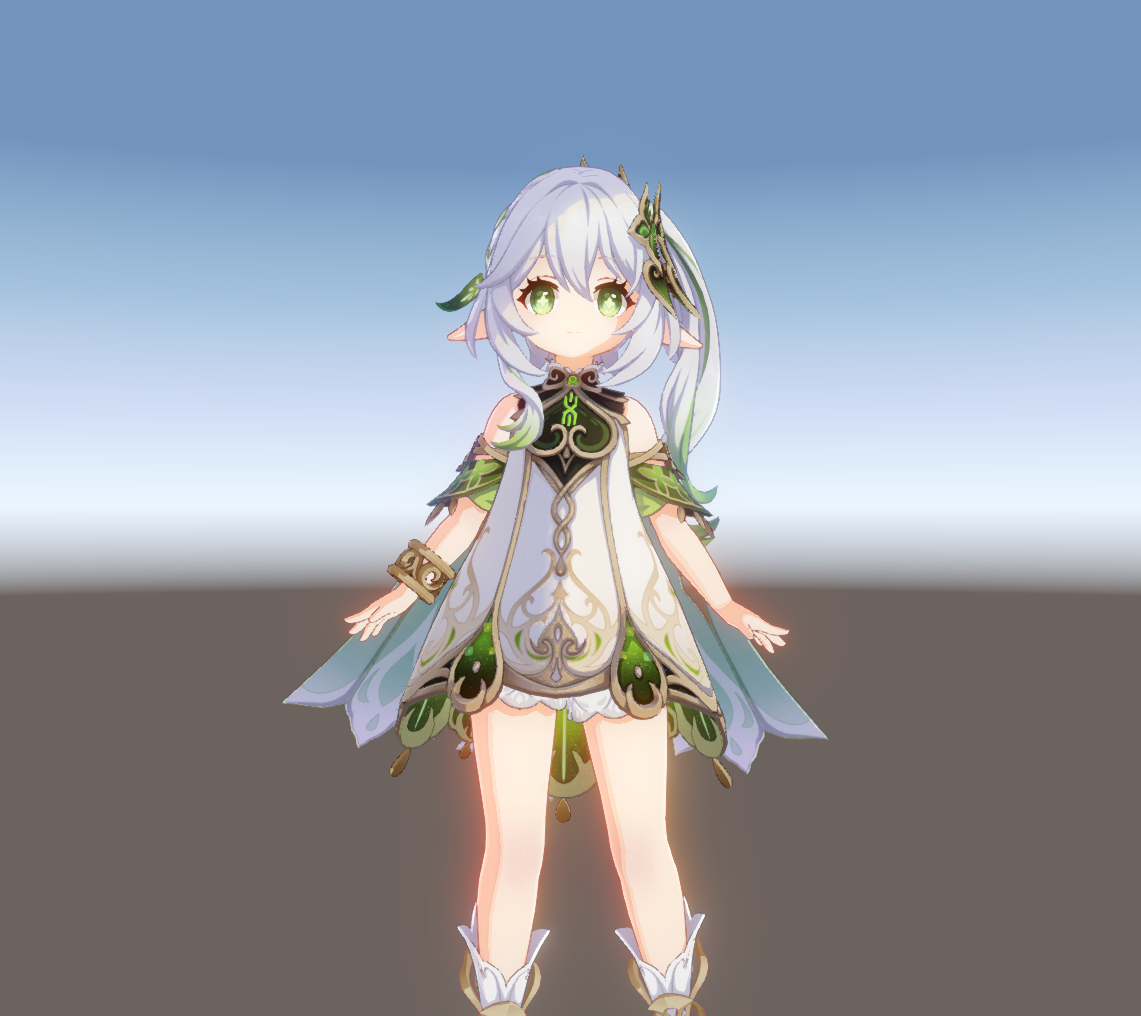
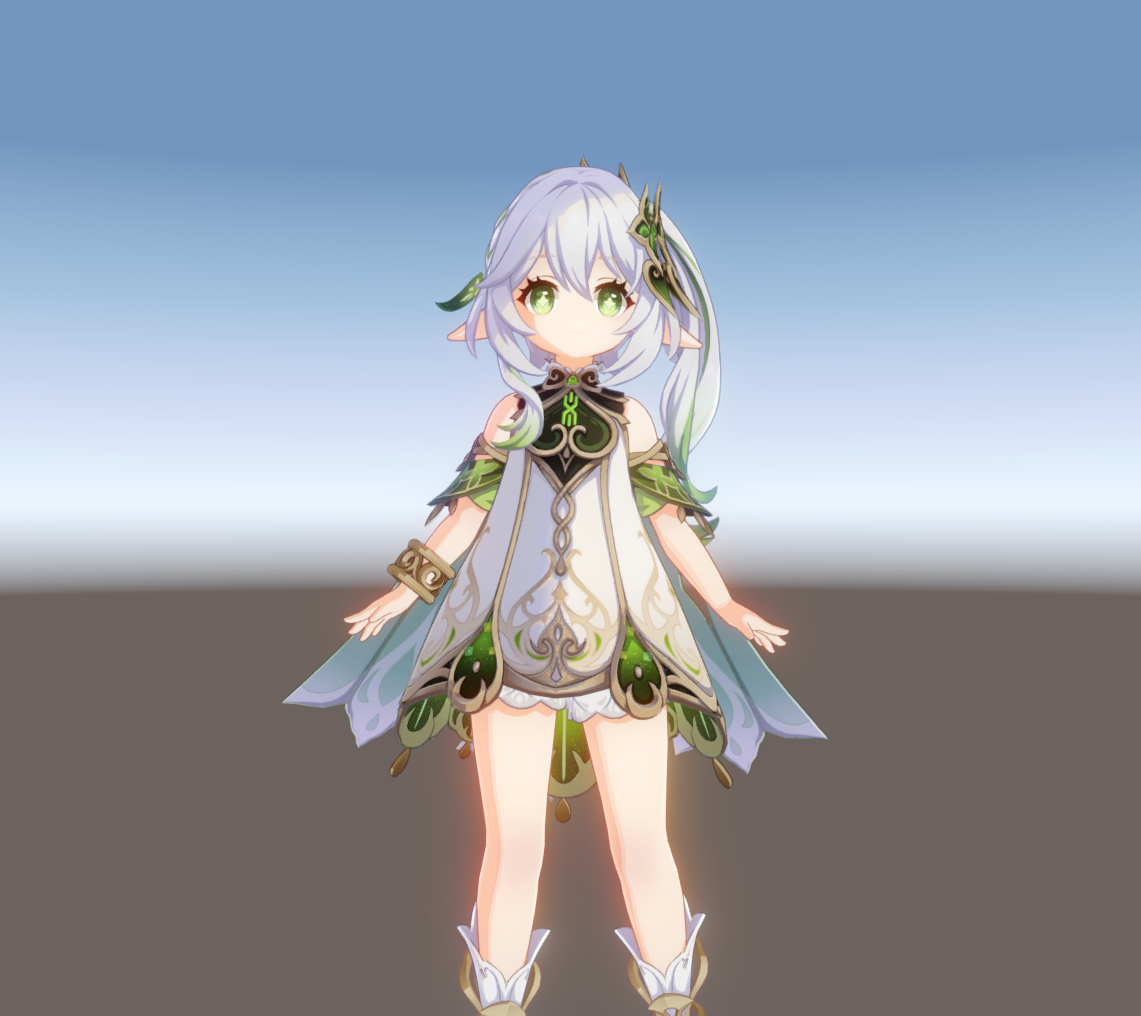
Editor light preview, MSAA/TAA, SDF flip fix
Enable editor-side DirectionalLight preview and improve rendering/lighting parity with Unity. Changes include:
- scripts/main_light.gd: added editor-mode handling so rotating DirectionalLight3D updates global shader main_light_direction without modifying scene transforms; preserved rotate_light behavior at runtime.
- shaders/toon_common.gdshaderinc: invert face SDF flip test (fcrossl = -cross(...).y) to account for Unity↔Godot X-mirror, avoiding mirrored face shadows under side light.
- project.godot: enable MSAA/TAA (msaa_2d/3d, use_taa) and increase screen_space_aa.
- scenes/main.tscn: add sky mid_color and fix DirectionalLight transform/formatting.
- Docs updated (AGENTS.md, README.md) and screenshot.png refreshed.

Changed region(s): [[0.4294, 0.1831, 0.6135, 0.3661], [0.3374, 0.5492, 0.3988, 0.5797], [0.4908, 0.3967, 0.5215, 0.4272]]

diff --git a/AGENTS.md b/AGENTS.md
@@ -19,7 +19,10 @@ Godot 4.7 项目：仿原神卡通渲染（纳西妲），逐行移植自 Unity 
 - **着色器内计算的 UV（Ramp 行号、matcap）必须翻转 V**（Unity 纹理原点左下，
   Godot 左上；网格 UV 采样则无需处理）。
 - **网格法线 X、Z 均与 Unity 相反**（FBX 导入轴转换，骨骼朝向不受影响）：身体
-  光照用 `light_dir_body = (-L.x, L.y, -L.z)`，脸部 SDF 用原光向。
+  光照用 `light_dir_body = (-L.x, L.y, -L.z)`，脸部 SDF 用原光向。注意 Unity 与
+  Godot 世界互为 X 镜像（反射）：`dot(F,L)` 不变，但 `cross(F,L).y` 变号，因此
+  脸部 SDF 翻面条件必须与 Unity **反号**（`fcrossl = -cross(f,l).y`），否则侧光时
+  脸部阴影左右颠倒（默认顶光下差异极小，需用侧光验证）。
 - 着色器内置矩阵（`VIEW_MATRIX`、`PROJECTION_MATRIX` 等）只能直接在
   `vertex()/fragment()` 里用，需传入自定义函数（否则编译报错）。
 - 改 `.gdshaderinc` 后渲染未变 → 删 `.godot/shader_cache`。
@@ -27,7 +30,11 @@ Godot 4.7 项目：仿原神卡通渲染（纳西妲），逐行移植自 Unity 
 - 主光方向通过全局 shader uniform `main_light_direction` 传递
   （在 `project.godot [shader_globals]` 中声明，编辑器编译期必须存在；
   `global_shader_parameter_get` 仅编辑器可用，运行时用 `set`）。
+  编辑器里旋转 DirectionalLight3D 节点即可实时预览光照变化（脚本 `main_light.gd`
+  检测节点 basis 变化并跟随，节点 +Z 为指向光源方向；未旋转过时沿用
+  `direction_to_light` 导出参数，运行时行为不变）。
 - Unity 批处理参考图：`E:\UnityProject\NahidaRenderProject` 下
   `Assets/Editor/BatchScreenshot.cs`，`Unity.exe -batchmode -projectPath ... -executeMethod BatchScreenshot.Capture`
-  生成 `unity_reference.png` 供逐像素对比。
+  生成 `unity_reference.png` 供逐像素对比；`BatchScreenshot.CaptureSideLight`
+  生成侧光参考 `unity_side_right.png`（验证脸部 SDF 左右方向用，默认顶光下看不出）。
 - 角色模型/贴图为游戏提取资源，仅限学习用途，禁止商用。
